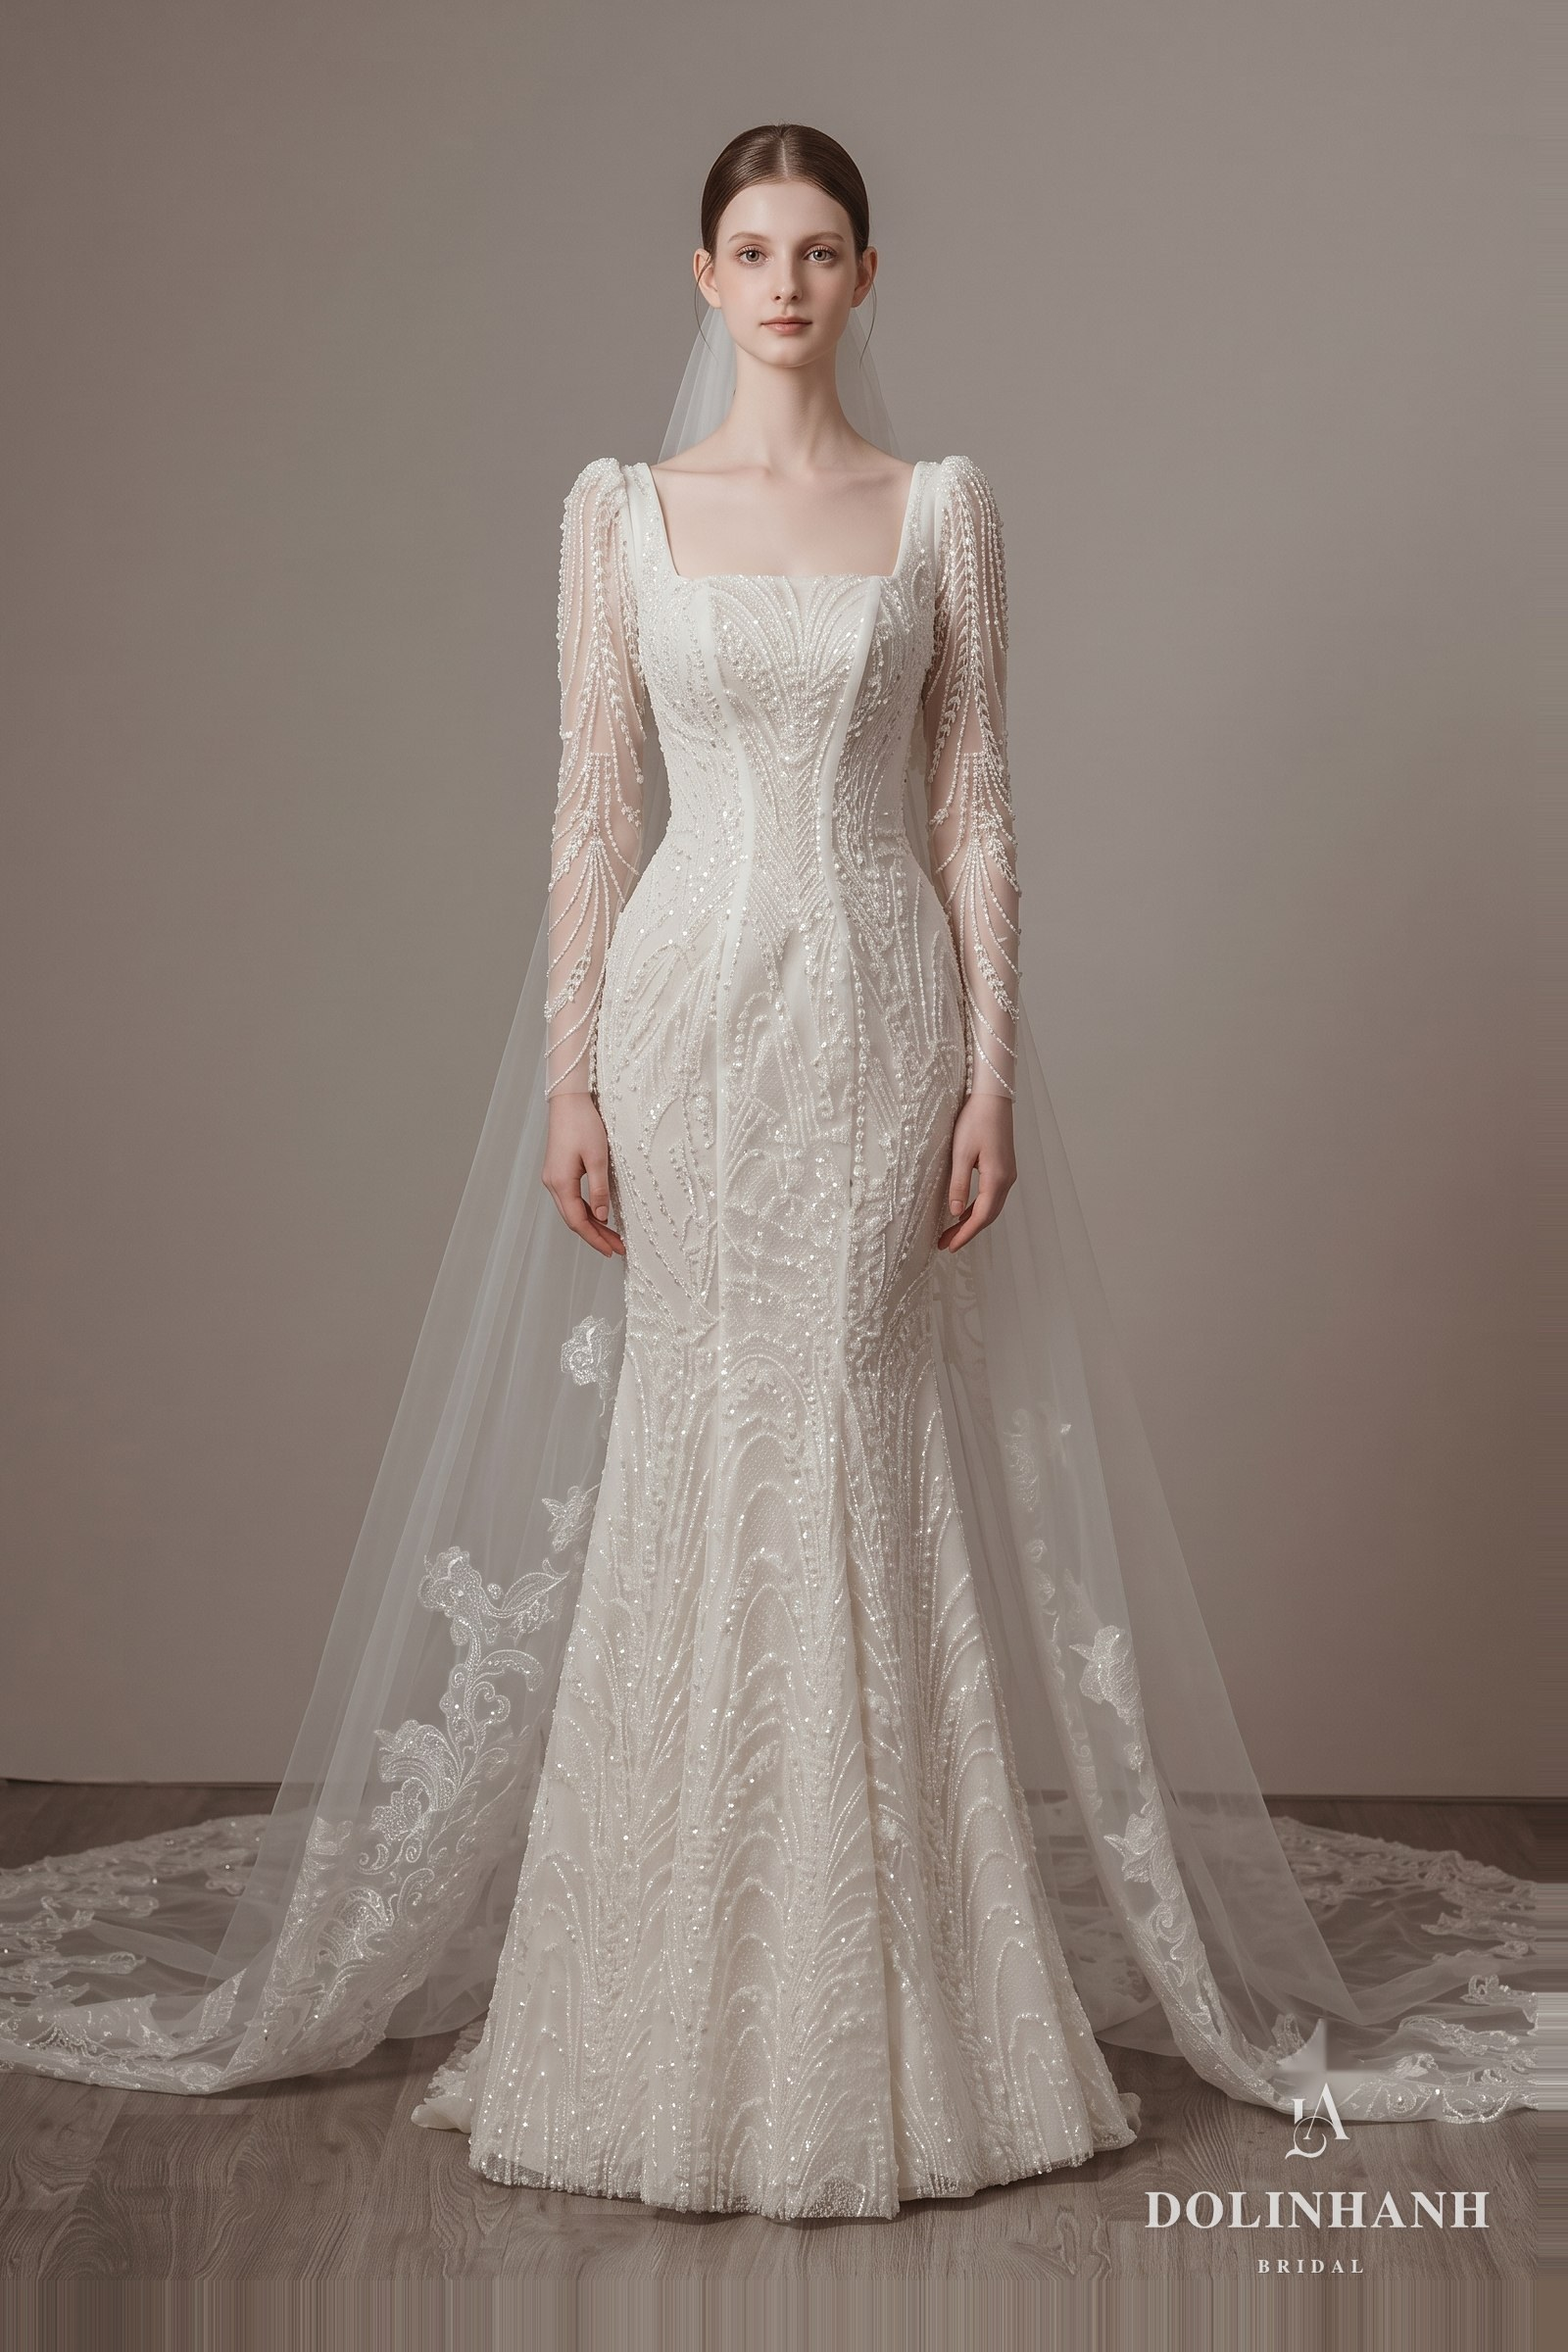
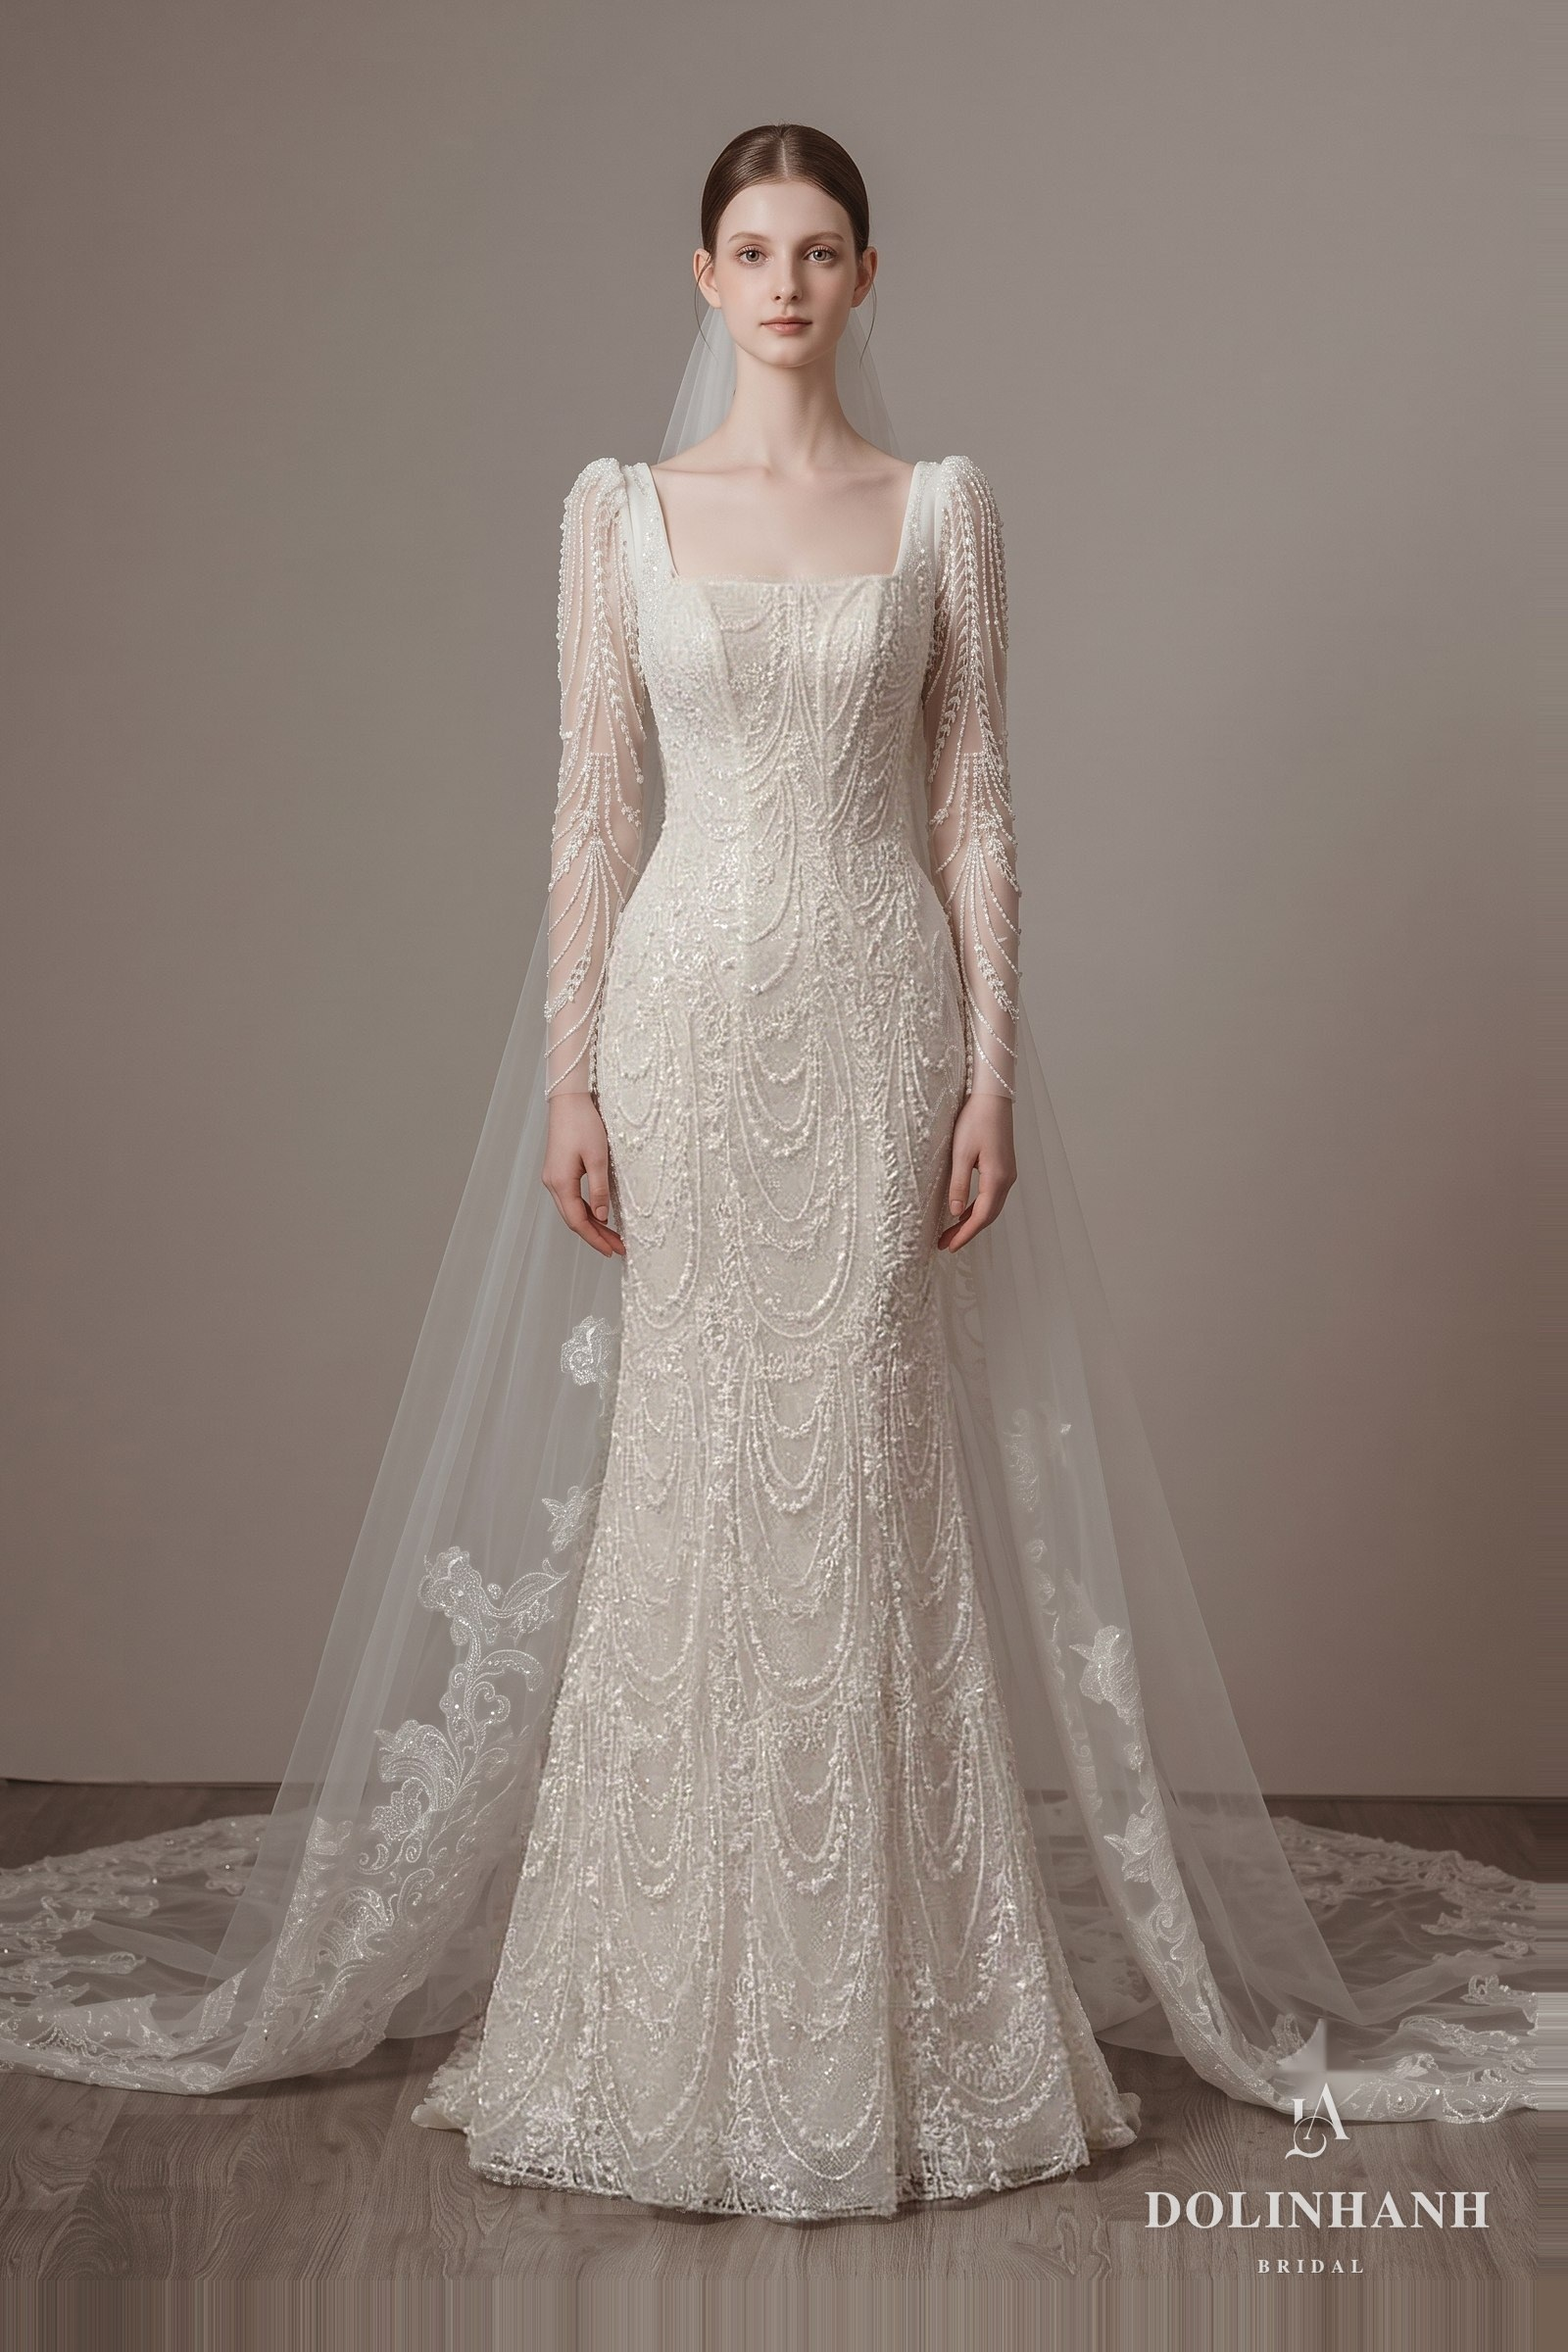
V194: MS 413: downward hanging pearl swag embroidery

Changed region(s): [[0.2812, 0.25, 0.7188, 0.9688]]

diff --git a/bo-suu-tap.html b/bo-suu-tap.html
@@ -3363,7 +3363,7 @@ src="https://www.facebook.com/tr?id=1358640082651240&ev=PageView&noscript=1"
         </figure>
         <figure data-kin="1" data-dang="mermaid" data-mood="timeless" data-coso="hcm">
           <div class="sl-khung">
-            <div class="sl" data-img="anh/vay/ms413/01.jpg?v=1"></div>
+            <div class="sl" data-img="anh/vay/ms413/01.jpg?v=0511"></div>
           </div>
           <figcaption><span class="kind" data-en="Dolinhanh Bridal" data-zh="Dolinhanh Bridal">Dolinhanh Bridal</span><span class="nm">MS 413</span><span class="de" data-en="Beaded square neck long sleeves" data-zh="钉珠方领长袖婚纱">Cổ vuông tay dài đính kết</span><span class="gia">US$1,280</span></figcaption>
         </figure>
